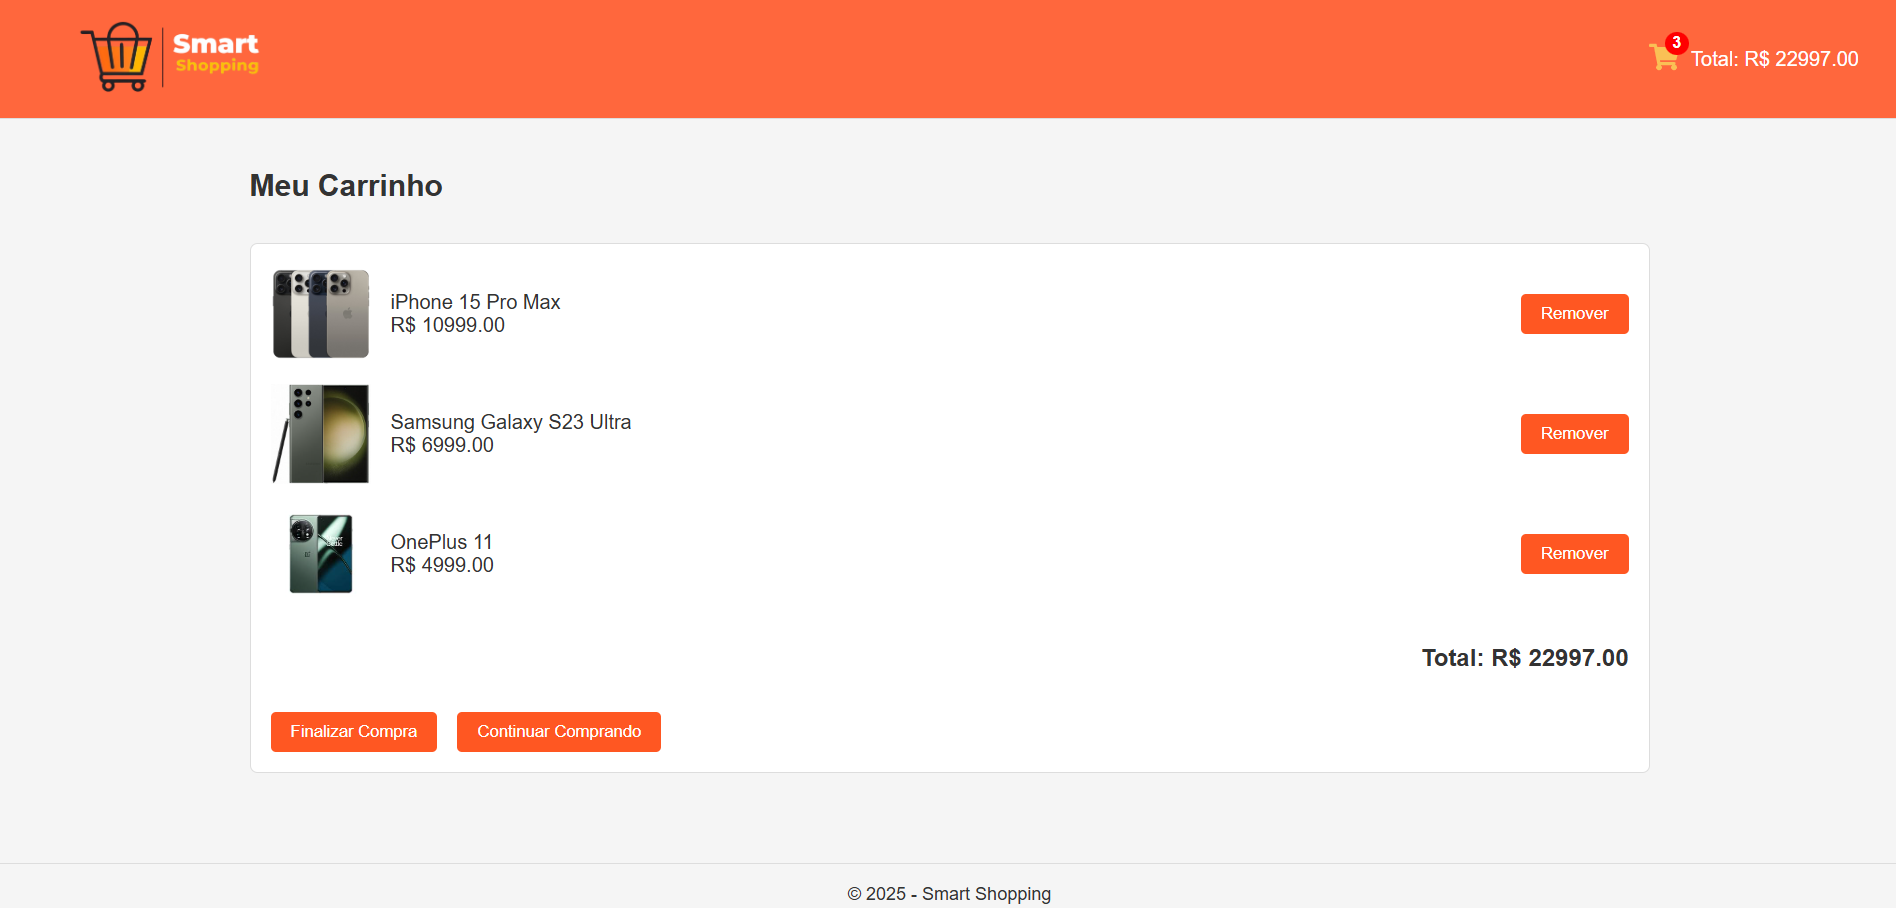
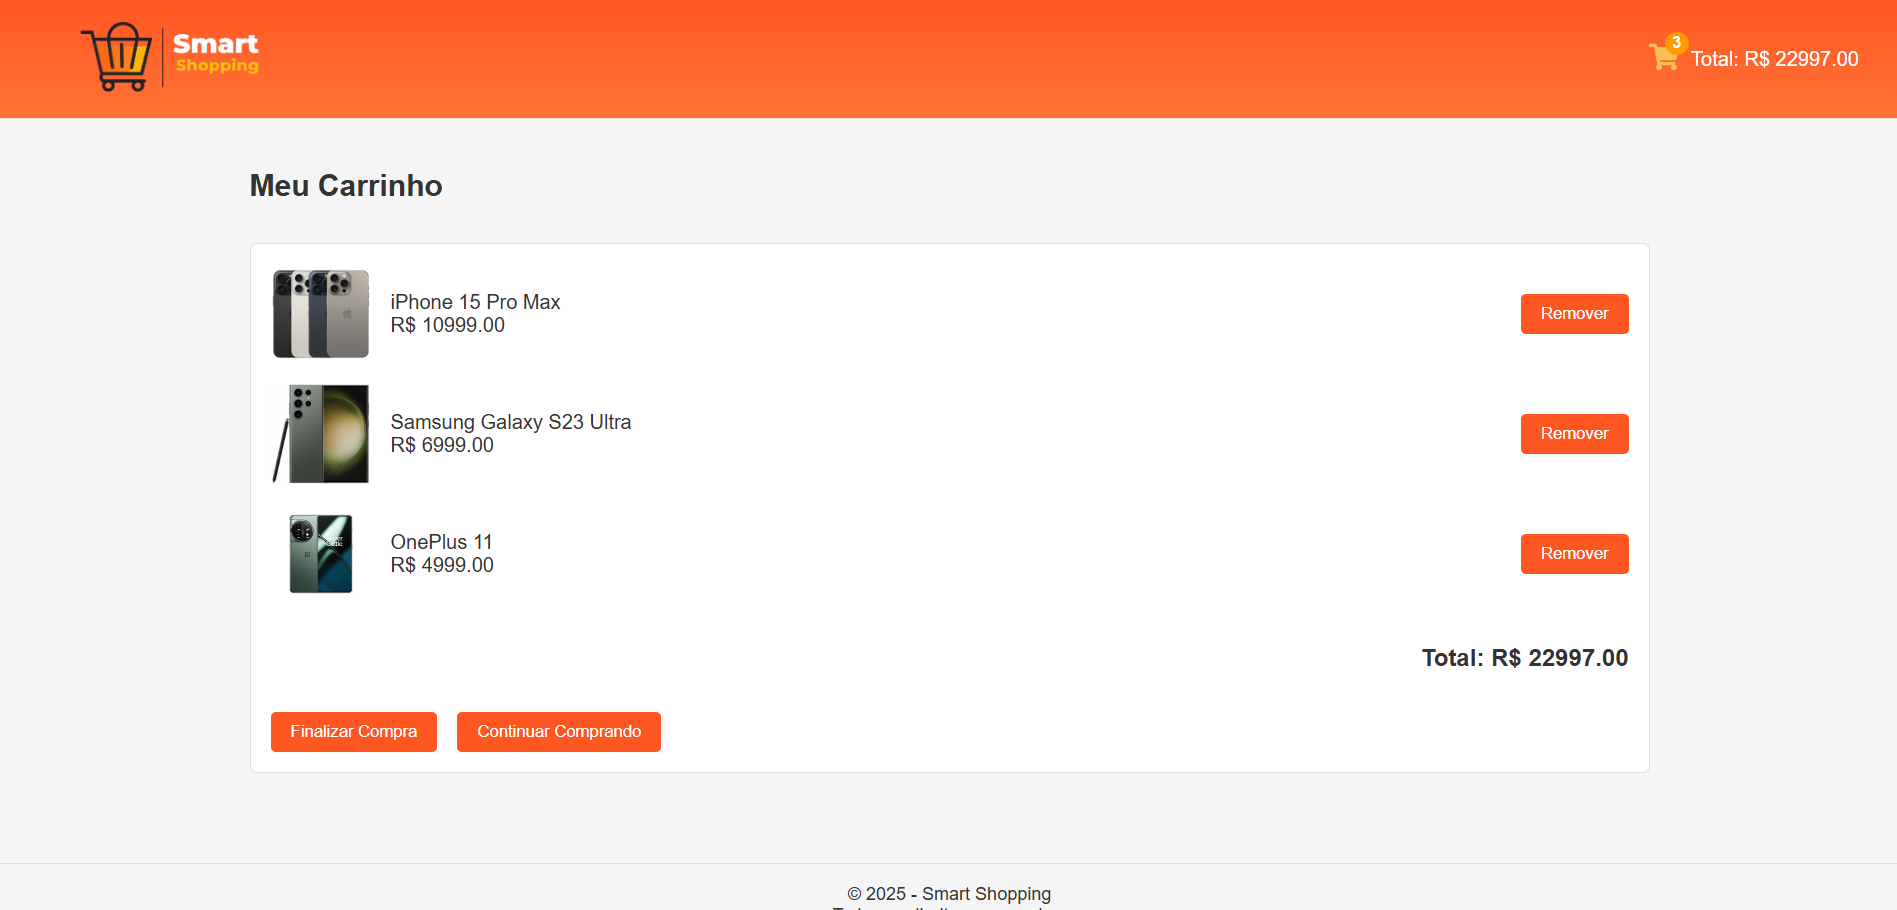
Atualiza a cor do Header e substitui imagens do projeto

diff --git a/src/App.css b/src/App.css
@@ -24,7 +24,7 @@ body {
   display: flex;
   justify-content: space-between;
   align-items: center;
-  background-color: #ff6439fa;
+  background: linear-gradient(#ff5722,#ff7337);
   padding: 1rem 2rem;
   border-bottom: 1px solid #ddd;
 }
@@ -48,7 +48,7 @@ body {
   position: absolute;
   top: -8px;
   right: -8px;
-  background-color: #ff0000;
+  background-color: #ff9a03;
   color: #fff;
   font-size: 0.8rem;
   font-weight: bold;
